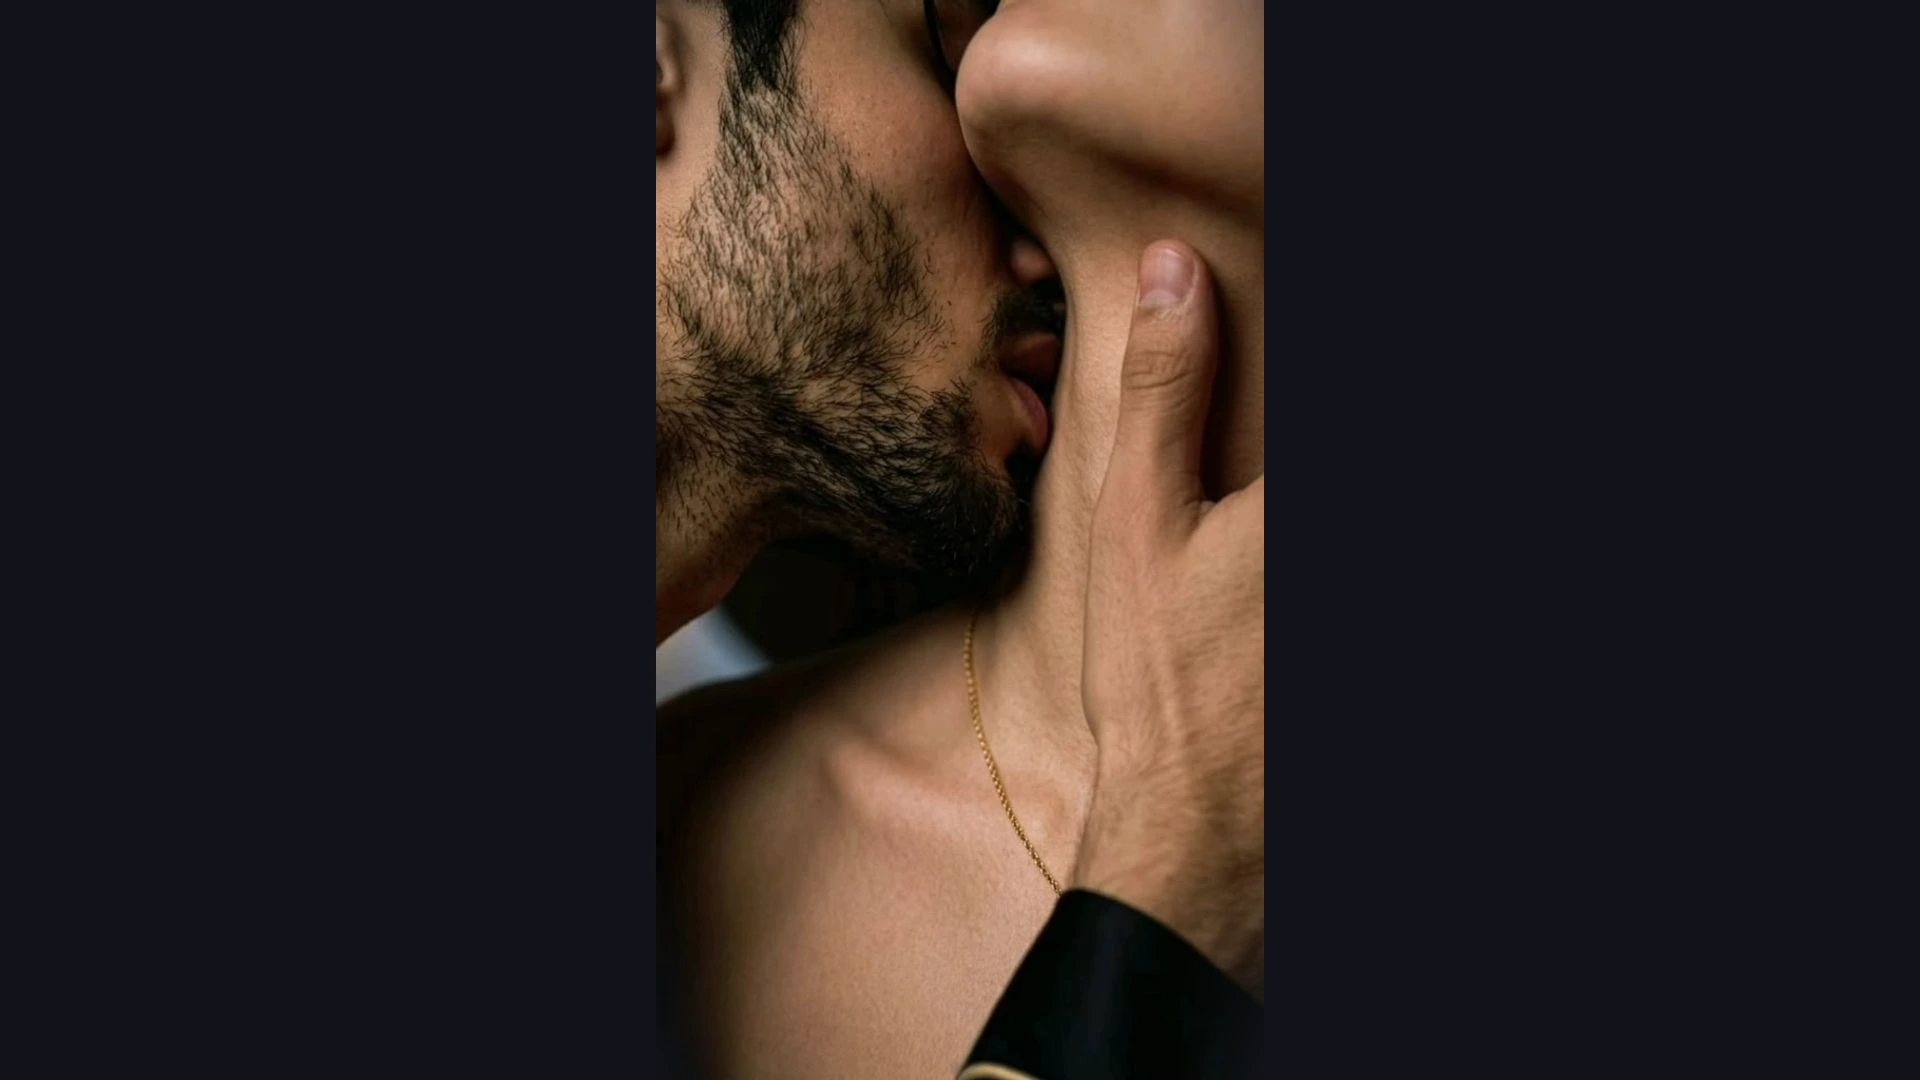
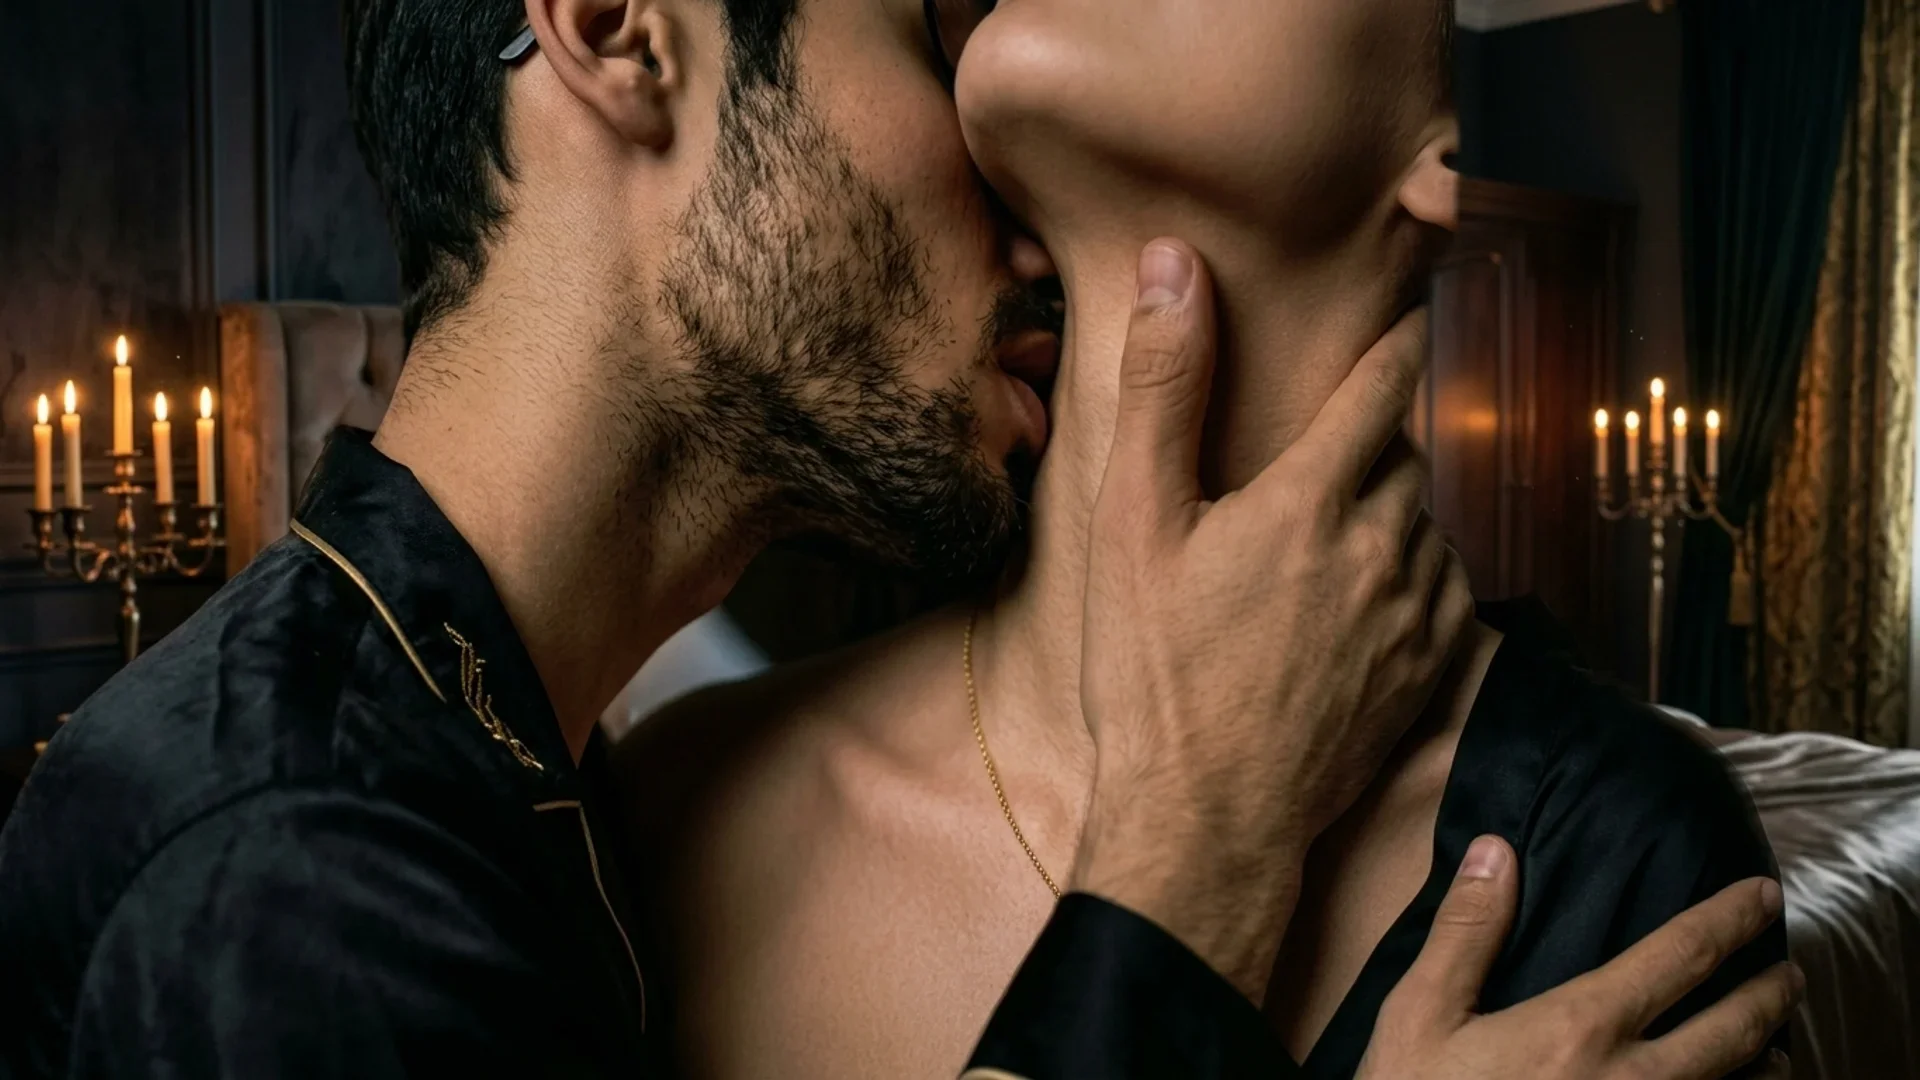
fix(home): remove horizontal side gradients and overwrite legacy bestsellers bg with wide version

diff --git a/src/app/(store)/page.tsx b/src/app/(store)/page.tsx
@@ -140,11 +140,10 @@ export default async function HomePage() {
             priority
             unoptimized
             sizes="100vw"
-            className="object-cover object-center opacity-75 md:opacity-85"
+            className="object-cover object-center opacity-90 md:opacity-95"
           />
-          {/* Subtle depth gradients for readability while keeping the wide image fully visible */}
-          <div className="absolute inset-0 bg-gradient-to-t from-[#12141a] via-[#12141a]/40 to-[#12141a]/30" />
-          <div className="absolute inset-0 bg-gradient-to-r from-[#12141a]/35 via-transparent to-[#12141a]/35" />
+          {/* Subtle vertical depth gradient for text contrast - completely clear on the sides */}
+          <div className="absolute inset-0 bg-gradient-to-b from-[#12141a]/55 via-transparent to-[#12141a]/65" />
         </div>
         <div className="absolute inset-x-0 top-0 h-px bg-gradient-to-r from-transparent via-bronze-500/70 to-transparent" />
 
